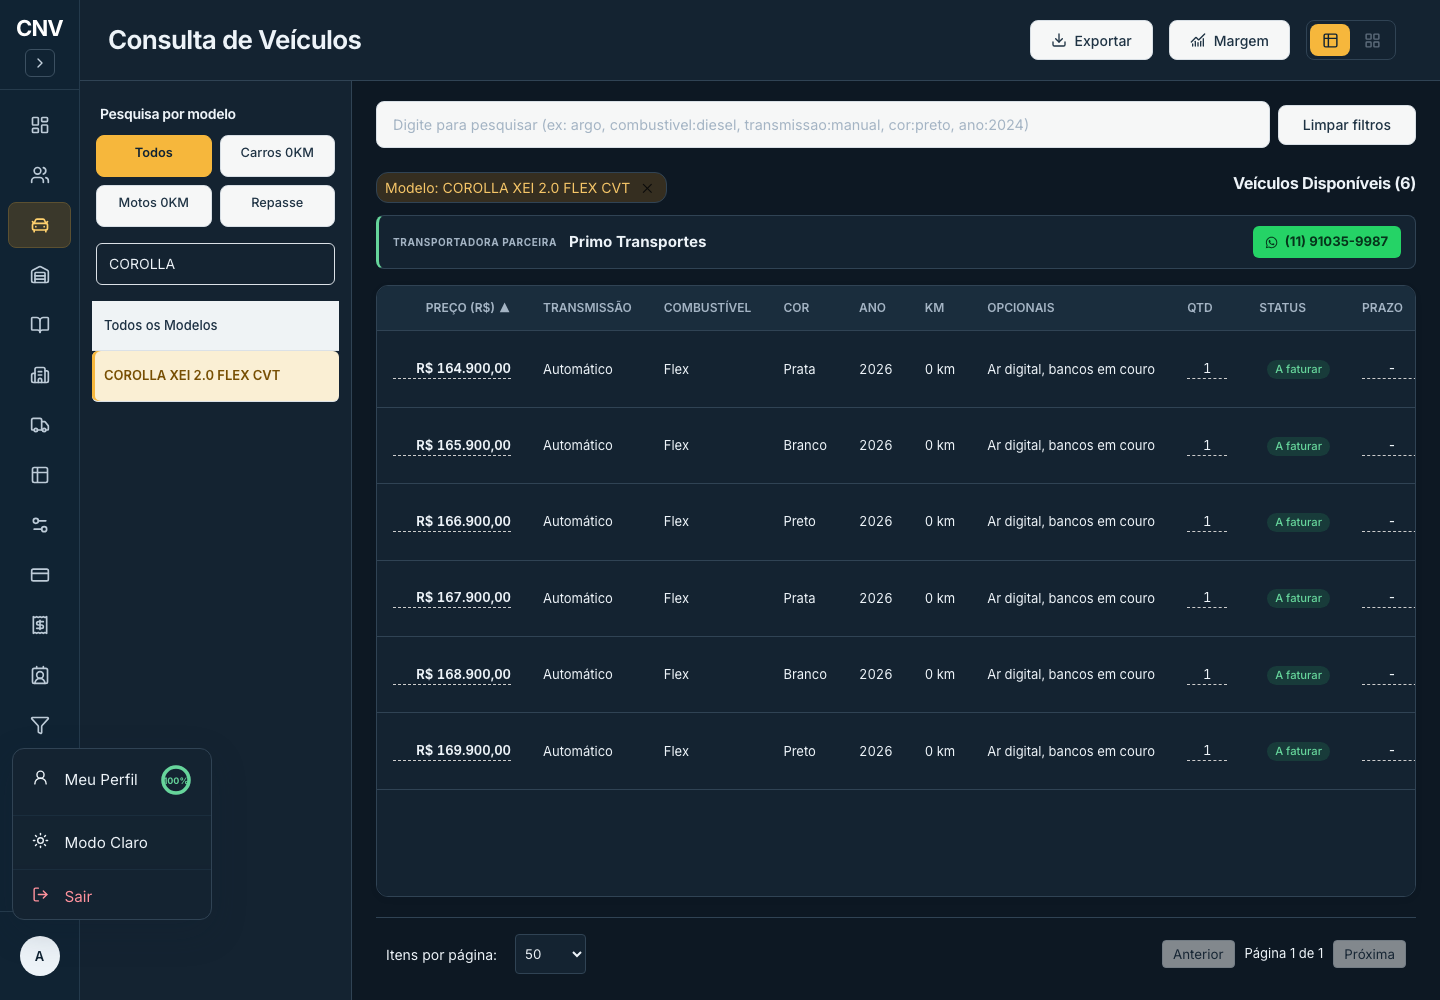
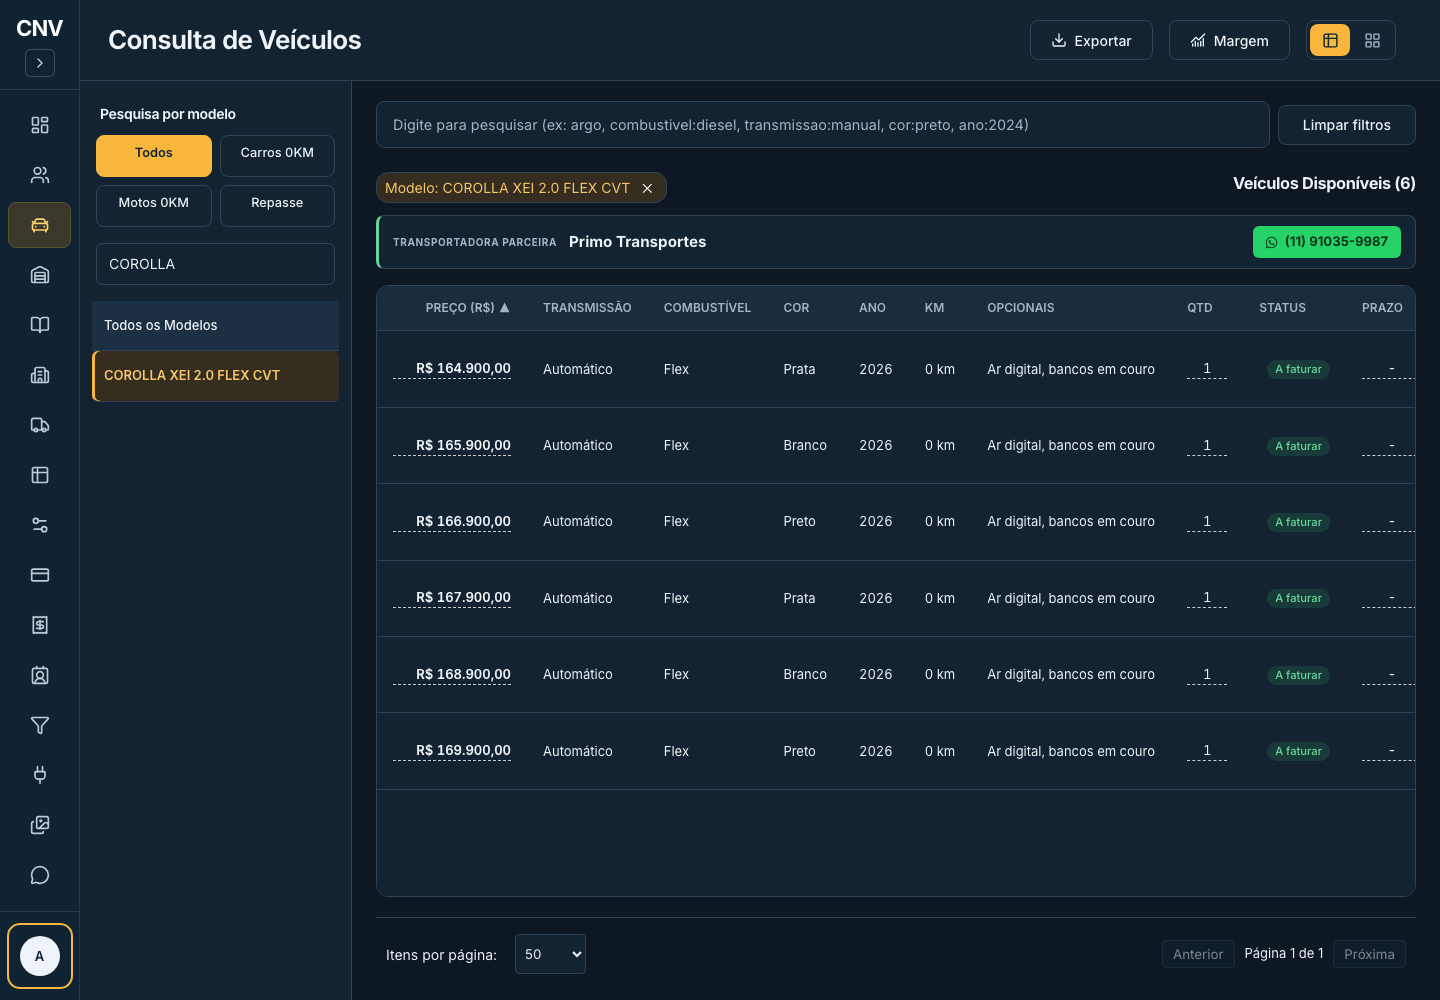
.
.

diff --git a/components/operator/VehicleTable.tsx b/components/operator/VehicleTable.tsx
@@ -85,9 +85,11 @@ export function VehicleTable({
         return basePrice * (1 + margem / 100);
     };
 
-    const priceHeader = (<th className={`${styles.tableHeader} ${styles.priceCell}`} onClick={() => handleSort('preco')} style={{ cursor: 'pointer' }}>
-                            PREÇO (R$) {sortConfig.key === 'preco' && (sortConfig.direction === 'asc' ? '▲' : '▼')}
-                        </th>);
+    const priceHeader = (
+        <th className={`${styles.tableHeader} ${styles.priceCell}`} onClick={() => handleSort('preco')} style={{ cursor: 'pointer' }}>
+            PREÇO (R$) {sortConfig.key === 'preco' && (sortConfig.direction === 'asc' ? '▲' : '▼')}
+        </th>
+    );
 
     return (
         <div className={styles.tableContainer}>
@@ -170,7 +172,8 @@ export function VehicleTable({
                         const isRepasse = vehicle.origem === 'repasse';
                         const rowReadOnly = isClientReadOnly || isRepasse;
                         const rowCanEdit = canEditPriceAndNotes && !isRepasse;
-                        const priceCell = (<td className={`${styles.tableCell} ${styles.priceCell}`}>
+                        const priceCell = (
+                            <td className={`${styles.tableCell} ${styles.priceCell}`}>
                                 {rowReadOnly && !rowCanEdit ? (
                                     `R$ ${calculateClientPrice(vehicle).toLocaleString('pt-BR', { minimumFractionDigits: 2 })}`
                                 ) : (
@@ -179,7 +182,8 @@ export function VehicleTable({
                                         onSave={(newValue) => handleUpdatePreco(vehicle, newValue)}
                                     />
                                 )}
-                            </td>);
+                            </td>
+                        );
                         return (
                         <tr key={vehicle.id} className={styles.tableRow}>
 

diff --git a/__tests__/components/AdminTheme.test.tsx b/__tests__/components/AdminTheme.test.tsx
@@ -1,6 +1,7 @@
 import React from 'react';
 import { fireEvent, render, screen, waitFor } from '@testing-library/react';
 import { describe, expect, it } from 'vitest';
+import { WhatsAppTheme } from '../../wa/components/admin-theme';
 import { AdminThemeProvider, useTheme } from '../../lib/contexts/ThemeContext';
 
 function Toggle() {
@@ -13,13 +14,14 @@ describe('tema administrativo', () => {
         localStorage.removeItem('cnv-admin-theme');
         localStorage.setItem('theme', 'dark');
         document.documentElement.dataset.theme = 'dark';
-        const view = render(<AdminThemeProvider><Toggle /></AdminThemeProvider>);
+        const view = render(<AdminThemeProvider><WhatsAppTheme><Toggle /></WhatsAppTheme></AdminThemeProvider>);
         fireEvent.click(screen.getByRole('button', { name: 'light' }));
         expect(localStorage.getItem('cnv-admin-theme')).toBe('dark');
+        expect(document.getElementById('wa-raiz')).toHaveClass('wa-dark');
         expect(localStorage.getItem('theme')).toBe('dark');
         expect(document.documentElement.dataset.theme).toBe('dark');
         view.unmount();
-        render(<AdminThemeProvider><Toggle /></AdminThemeProvider>);
+        render(<AdminThemeProvider><WhatsAppTheme><Toggle /></WhatsAppTheme></AdminThemeProvider>);
         await waitFor(() => expect(screen.getByRole('button', { name: 'dark' })).toBeInTheDocument());
     });
 });

diff --git a/components/dealership/PricingCatalog.module.css b/components/dealership/PricingCatalog.module.css
@@ -534,3 +534,13 @@ details[open] > .sectionTitle::before {
     padding: 1rem 1.5rem;
     border-top: 1px solid var(--color-highlight);
 }
+
+/* The same inventory is embedded in administration; dealership styles stay scoped. */
+:global([data-admin-design]) .container { padding: 24px; }
+:global([data-admin-design]) .tableShell, :global([data-admin-design]) .modalContent { background: var(--color-surface); border-color: var(--admin-border); border-radius: 12px; box-shadow: var(--admin-shadow); }
+:global([data-admin-design]) .table th { padding: 12px 16px; font-weight: 600; font-size: 12px; background: var(--color-panel); color: var(--color-text-muted); text-transform: none; }
+:global([data-admin-design]) .table td { padding: 14px 16px; border-color: var(--admin-border); line-height: 1.45; }
+:global([data-admin-design]) .segmentActive { background: var(--admin-selected); color: var(--admin-selected-text); }
+:global([data-admin-design]) .actionBtn { border: 1px solid var(--admin-border); background: var(--color-surface); color: var(--color-text); border-radius: 8px; min-height: 40px; }
+:global([data-admin-design]) .search { background: var(--color-surface); }
+@media (max-width: 768px) { :global([data-admin-design]) .container { padding: 16px; } }

diff --git a/app/dashboard/admin/users/UsersTable.module.css b/app/dashboard/admin/users/UsersTable.module.css
@@ -361,3 +361,4 @@
 :global([data-admin-design]) .searchInput { background: var(--color-surface); color: var(--color-text); border: 1px solid var(--admin-border); border-radius: 8px; min-height: 40px; }
 :global([data-admin-design]) .table th { background: var(--color-panel); color: var(--color-text-muted); font-size: 12px; font-weight: 600; text-transform: none; padding: 12px 16px; border: 0; border-bottom: 1px solid var(--admin-border); }
 :global([data-admin-design]) .table td { padding: 14px 16px; border: 0; border-bottom: 1px solid var(--admin-border); font-size: 14px; line-height: 1.45; }
+:global([data-admin-design]) .modalTitle, :global([data-admin-design]) .label { color: var(--color-text); }

diff --git a/components/admin/AdminDealershipVehicles.module.css b/components/admin/AdminDealershipVehicles.module.css
@@ -74,3 +74,6 @@
 
 /* Shared administration design; other profiles keep their existing presentation. */
 :global([data-admin-design]) .select { background: var(--color-surface); color: var(--color-text); border: 1px solid var(--admin-border); border-radius: 8px; min-height: 40px; }
+:global([data-admin-design]) .header { background: transparent; border: 0; padding: 0 0 24px; }
+:global([data-admin-design]) .header h2 { font-size: 28px; font-weight: 650; }
+@media (max-width: 768px) { :global([data-admin-design]) .header h2 { font-size: 23px; } }

diff --git a/components/dealership/RepasseCatalog.module.css b/components/dealership/RepasseCatalog.module.css
@@ -274,3 +274,6 @@
     color: var(--color-text-muted);
     cursor: pointer;
 }
+:global([data-admin-design]) .primaryBtn { color: var(--admin-on-accent); min-height: 40px; font-weight: 600; }
+:global([data-admin-design]) .formPanel { border-radius: 12px; box-shadow: var(--admin-shadow); }
+:global([data-admin-design]) .formGrid input, :global([data-admin-design]) .formGrid select { background: var(--color-surface); }

diff --git a/docs/design-administrador.md b/docs/design-administrador.md
@@ -1,0 +1,19 @@
+# Padronização visual do administrador
+
+Implementação da direção aprovada: navegação azul-marinho, área de trabalho clara, destaque âmbar e tipografia Inter. A pesquisa lateral de veículos mantém as quatro categorias, busca por modelo e lista de seleção. Na tabela administrativa, o preço aparece junto ao modelo.
+
+## Estrutura
+
+- `app/dashboard/admin/design-system.css`: tokens e regras visuais restritos a `data-admin-design`.
+- `AdminThemeProvider`: preferência própria em `cnv-admin-theme`, com temas claro e escuro, sem alterar o tema global dos demais perfis.
+- Componentes e módulos CSS: tabelas, formulários, botões, cartões, navegação e modais padronizados. O módulo WhatsApp recebe os mesmos tokens e preferência de tema.
+
+## Validação
+
+- Build de produção e verificação TypeScript concluídos.
+- Testes de pesquisa lateral, ordem e cálculo de preços, tema, configurações, planos, CRM, Kanban, botões e exportação CSV executados com sucesso.
+- Quinze abas administrativas verificadas no navegador em desktop e celular (390 px), com respostas de API de demonstração; sem transbordamento horizontal do documento ou erros de página no roteiro.
+- Modais de margem, planos, concessionárias e cadastro de cliente revisados. Temas claro e escuro conferidos na consulta de veículos.
+- Capturas disponíveis em `output/admin-design/`.
+
+O roteiro visual usa dados simulados e não substitui a validação das integrações com dados reais. As páginas protegidas do WhatsApp foram compiladas, mas não exercitadas com uma sessão real de produção. O lint permanece bloqueado pela configuração/dependência `next/core-web-vitals` ausente no projeto. Não houve publicação em produção nesta etapa.
